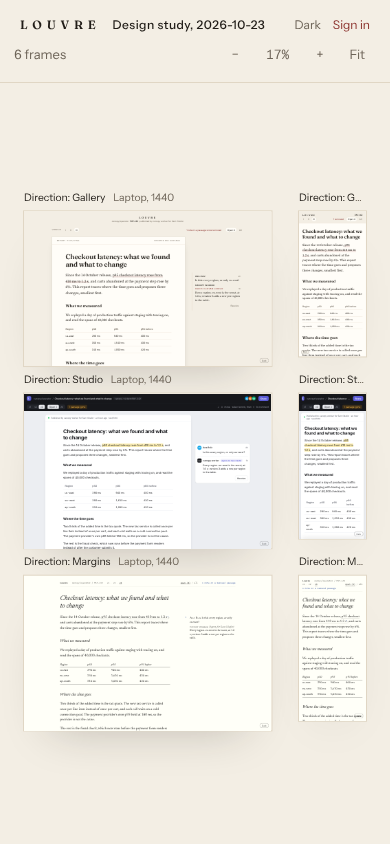
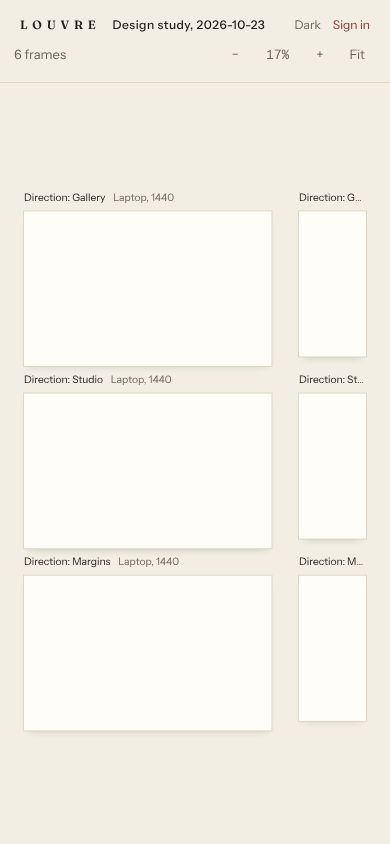
fix(ui): on a phone, draw a board's pages only zoomed in to them, two at most (#28)

diff --git a/ui/src/components/board.tsx b/ui/src/components/board.tsx
@@ -4,7 +4,7 @@ import type { CSSProperties, PointerEvent as ReactPointerEvent } from 'react'
 
 import { SANDBOX } from '@/components/frame'
 import { Header } from '@/components/header'
-import { bounds, fit, panBy, wheelFactor, ZOOM_STEP, zoomAt } from '@/lib/canvas'
+import { bounds, fit, live, panBy, wheelFactor, ZOOM_STEP, zoomAt } from '@/lib/canvas'
 import type { Point, View } from '@/lib/canvas'
 import { count } from '@/lib/format'
 import { useTheme } from '@/lib/theme'
@@ -74,12 +74,16 @@ export function BoardCanvas({ title, namespace, hint, frames }: BoardCanvasProps
     // The moves made since the board was last drawn: a phone sends pointer moves faster than its screen redraws, so
     // they are drawn together, once a frame.
     const pending = useRef<((current: View) => View) | null>(null)
-    // Whether the zoom is changing, and when it is still again. Each step of a zoom redraws every frame's page at the
-    // new size, which a phone has not the memory to do many times a second: while it changes, the pages are put away.
-    const [zooming, setZooming] = useState(false)
-    const settling = useRef<ReturnType<typeof setTimeout>>(undefined)
+    // The view once it has been still for a moment, and the canvas's size: the pages are drawn from them, not from the
+    // view. Each step of a zoom would redraw every page at the new size, and each step of a pan on a phone load and
+    // unload them, which a phone has not the memory to do many times a second.
+    const [settled, setSettled] = useState<View | null>(null)
+    const [screen, setScreen] = useState<{ width: number; height: number } | null>(null)
 
     const world = bounds(frames, LABEL_ROOM)
+    // While the zoom changes, the pages are put away; once it is still, those the screen can hold are drawn.
+    const zooming = view !== null && settled?.scale !== view.scale
+    const shown = new Set(settled && screen ? live(frames, settled, screen.width, screen.height).map((f) => f.id) : [])
 
     const fitView = () => {
         const viewport = viewportRef.current
@@ -105,21 +109,23 @@ export function BoardCanvas({ title, namespace, hint, frames }: BoardCanvasProps
         }
     }
 
-    const zoom = (next: (current: View) => View) => {
-        change(next)
-        setZooming(true)
-        clearTimeout(settling.current)
-        settling.current = setTimeout(() => setZooming(false), SETTLE)
-    }
-
     const middle = (): Point => {
         const viewport = viewportRef.current
         return { x: (viewport?.clientWidth ?? 0) / 2, y: (viewport?.clientHeight ?? 0) / 2 }
     }
 
-    const zoomBy = (factor: number) => zoom((was) => zoomAt(was, factor, middle()))
+    const zoomBy = (factor: number) => change((was) => zoomAt(was, factor, middle()))
+
+    useEffect(() => {
+        const timer = setTimeout(() => setSettled(view), SETTLE)
+        return () => clearTimeout(timer)
+    }, [view])
 
     const onResize = useEffectEvent(() => {
+        const viewport = viewportRef.current
+        if (viewport) {
+            setScreen({ width: viewport.clientWidth, height: viewport.clientHeight })
+        }
         if (fitted.current) {
             fitView()
         }
@@ -141,7 +147,7 @@ export function BoardCanvas({ title, namespace, hint, frames }: BoardCanvasProps
         const at = viewportRef.current?.getBoundingClientRect()
         if (at) {
             const factor = wheelFactor(event.deltaY, event.deltaMode, event.ctrlKey)
-            zoom((was) => zoomAt(was, factor, { x: event.clientX - at.left, y: event.clientY - at.top }))
+            change((was) => zoomAt(was, factor, { x: event.clientX - at.left, y: event.clientY - at.top }))
         }
     })
     useEffect(() => {
@@ -209,7 +215,7 @@ export function BoardCanvas({ title, namespace, hint, frames }: BoardCanvasProps
             const before = { at: halfway(was, other), apart: distance(was, other) }
             const after = { at: halfway(now, other), apart: distance(now, other) }
             const factor = before.apart > 0 ? after.apart / before.apart : 1
-            zoom((current) =>
+            change((current) =>
                 zoomAt(panBy(current, after.at.x - before.at.x, after.at.y - before.at.y), factor, after.at),
             )
             return
@@ -284,7 +290,7 @@ export function BoardCanvas({ title, namespace, hint, frames }: BoardCanvasProps
                     style={view ? drawn(view) : { visibility: 'hidden' }}
                 >
                     {frames.map((frame) => (
-                        <FrameOnBoard key={frame.id} frame={frame} theme={theme} />
+                        <FrameOnBoard key={frame.id} frame={frame} theme={theme} running={shown.has(frame.id)} />
                     ))}
                 </div>
             </div>
@@ -292,14 +298,18 @@ export function BoardCanvas({ title, namespace, hint, frames }: BoardCanvasProps
     )
 }
 
-/** A frame on the canvas: its label above it, its page running inside, and a link over it that opens it. */
-function FrameOnBoard({ frame, theme }: { frame: CanvasFrame; theme: Theme }) {
+/**
+ * A frame on the canvas: its label above it, its page running inside while it is live, its sheet alone while it is
+ * not, and a link over it that opens it.
+ */
+function FrameOnBoard({ frame, theme, running }: { frame: CanvasFrame; theme: Theme; running: boolean }) {
     const name = `${frame.title}, ${frame.label}`
     const label = <span className="sr-only">Open {name}</span>
     const { opens } = frame
     return (
         <figure
             className="board-frame"
+            data-live={running ? '' : undefined}
             style={{ left: frame.x, top: frame.y, width: frame.width, height: frame.height }}
         >
             <figcaption className="board-label">
@@ -308,14 +318,16 @@ function FrameOnBoard({ frame, theme }: { frame: CanvasFrame; theme: Theme }) {
                 {frame.openThreads > 0 ? <span className="text-accent">{String(frame.openThreads)} open</span> : null}
             </figcaption>
             {/* Inert: the board takes every pointer and key, so a frame is read by opening it. */}
-            <iframe
-                src={frame.src}
-                title={name}
-                sandbox={SANDBOX}
-                referrerPolicy="no-referrer"
-                inert
-                style={{ colorScheme: theme }}
-            />
+            {running ? (
+                <iframe
+                    src={frame.src}
+                    title={name}
+                    sandbox={SANDBOX}
+                    referrerPolicy="no-referrer"
+                    inert
+                    style={{ colorScheme: theme }}
+                />
+            ) : null}
             {'href' in opens ? (
                 <a href={opens.href} className="board-open" draggable={false}>
                     {label}

diff --git a/ui/src/lib/canvas.ts b/ui/src/lib/canvas.ts
@@ -13,6 +13,15 @@ export const MIN_SCALE = 0.05
 export const MAX_SCALE = 1
 /** How much one press of a zoom control zooms. */
 export const ZOOM_STEP = 1.25
+/** The longest a phone's screen is on its shorter side, in screen pixels, as ui/DESIGN.md has it. */
+export const PHONE = 600
+/**
+ * How many frames' pages a phone draws live at most, and the least zoom it draws one at: six pages at once are more
+ * than its browser has the memory for, and one smaller than this cannot be read.
+ */
+export const LIVE_COUNT = 2
+/** See LIVE_COUNT. */
+export const LIVE_SCALE = 0.25
 
 /** How the canvas is drawn on the screen: its offset, and its scale. */
 export interface View {
@@ -79,11 +88,39 @@ export function panBy(view: View, dx: number, dy: number): View {
     return { ...view, x: view.x + dx, y: view.y + dy }
 }
 
+/**
+ * The boxes whose pages are drawn live at a view, on a screen `width` by `height`: on a phone's, only those on the
+ * screen at LIVE_SCALE or more, LIVE_COUNT at most, the most of each shown first; on any other, every one.
+ */
+export function live<T extends Box>(boxes: readonly T[], view: View, width: number, height: number): T[] {
+    if (Math.min(width, height) > PHONE) {
+        return [...boxes]
+    }
+    if (view.scale < LIVE_SCALE) {
+        return []
+    }
+    return boxes
+        .map((box) => ({ box, shown: shownArea(box, view, width, height) }))
+        .filter(({ shown }) => shown > 0)
+        .toSorted((a, b) => b.shown - a.shown)
+        .slice(0, LIVE_COUNT)
+        .map(({ box }) => box)
+}
+
 /** How much a wheel's turn zooms: in for a turn up, out for one down; a trackpad's pinch, with ctrl, more finely. */
 export function wheelFactor(deltaY: number, deltaMode: number, ctrlKey: boolean): number {
     // A line is about 16 pixels, a page about 800: a mouse's notch and a trackpad's scroll then zoom alike.
     const pixels = deltaY * (deltaMode === 1 ? 16 : deltaMode === 2 ? 800 : 1)
     return Math.exp(-pixels * (ctrlKey ? 0.01 : 0.002))
+}
+
+/** How much of a box is on a screen `width` by `height` at a view, in screen pixels. */
+function shownArea(box: Box, view: View, width: number, height: number): number {
+    const left = Math.max(view.x + box.x * view.scale, 0)
+    const right = Math.min(view.x + (box.x + box.width) * view.scale, width)
+    const top = Math.max(view.y + box.y * view.scale, 0)
+    const bottom = Math.min(view.y + (box.y + box.height) * view.scale, height)
+    return Math.max(right - left, 0) * Math.max(bottom - top, 0)
 }
 
 function clamp(scale: number): number {

diff --git a/ui/src/lib/canvas.test.ts b/ui/src/lib/canvas.test.ts
@@ -1,6 +1,6 @@
 import { describe, expect, it } from 'vitest'
 
-import { bounds, fit, MAX_SCALE, MIN_SCALE, panBy, wheelFactor, zoomAt } from './canvas'
+import { bounds, fit, live, MAX_SCALE, MIN_SCALE, panBy, wheelFactor, zoomAt } from './canvas'
 
 describe('bounds', () => {
     it('holds every box, with room above for their labels', () => {
@@ -74,3 +74,38 @@ describe('wheelFactor', () => {
         expect(wheelFactor(3, 1, false)).toBeCloseTo(wheelFactor(48, 0, false))
     })
 })
+
+describe('live', () => {
+    // The design study's board: a row a direction, its laptop beside its phone.
+    const frames = [0, 1, 2].flatMap((row) => [
+        { id: `laptop-${String(row)}`, x: 0, y: row * 1060, width: 1440, height: 900 },
+        { id: `phone-${String(row)}`, x: 1600, y: row * 1060, width: 390, height: 844 },
+    ])
+
+    it('draws every page on a screen wider than a phone', () => {
+        expect(ids(live(frames, { x: 0, y: 0, scale: 0.2 }, 1440, 780))).toEqual(ids(frames))
+    })
+
+    it('draws no page on a phone with the board fitted to it, too small to read', () => {
+        expect(live(frames, fit(bounds(frames, 80), 390, 700, 24), 390, 700)).toEqual([])
+    })
+
+    it('draws two pages at most on a phone, those it shows the most of first', () => {
+        // All six show in part; the second row's phone the most, then the first row's.
+        const shown = live(frames, { x: -440, y: -150, scale: 0.34 }, 390, 700)
+
+        expect(ids(shown)).toEqual(['phone-1', 'phone-0'])
+    })
+
+    it('counts a phone on its side as a phone', () => {
+        expect(live(frames, { x: 0, y: 0, scale: 0.1 }, 932, 330)).toEqual([])
+    })
+
+    it('draws no page that is off the screen', () => {
+        expect(live(frames, { x: -5000, y: 0, scale: 1 }, 390, 700)).toEqual([])
+    })
+})
+
+function ids(boxes: readonly { id: string }[]): string[] {
+    return boxes.map((box) => box.id)
+}

diff --git a/tests/louvre/web/test_flows.py b/tests/louvre/web/test_flows.py
@@ -31,6 +31,8 @@ CLOSE = 0.001
 DEADLINE = 5.0
 #: The board's least zoom (ui/src/lib/canvas.ts, MIN_SCALE).
 MIN_SCALE = 0.05
+#: How many frames' pages a phone draws live at most (ui/src/lib/canvas.ts, LIVE_COUNT).
+LIVE_COUNT = 2
 #: How far past its frame a frame's shadows may reach on the canvas, in canvas pixels: the sheet's shadow's reach.
 SHADOW_REACH = 48
 
@@ -202,10 +204,12 @@ def test_a_reader_of_the_demo_is_asked_to_sign_in_to_reply(browser: Browser, liv
 
 
 def board(page: Page) -> None:
-    """Open the demo's board, and wait until it is fitted to the screen and its frames' pages have loaded."""
+    """Open the demo's board, and wait until it is fitted to the screen and the pages it draws have loaded."""
     page.goto("/b/design-study")
-    page.wait_for_selector(".world[data-ready]", state="attached")
-    expect(page.locator(".board-frame iframe")).to_have_count(6)
+    page.wait_for_selector(".world[data-ready]:not([data-zooming])", state="attached")
+    expect(page.locator(".board-frame")).to_have_count(6)
+    for frame in page.frames[1:]:
+        frame.wait_for_load_state()
 
 
 def view(page: Page) -> tuple[float, float, float]:
@@ -326,16 +330,17 @@ def test_on_a_phone_a_board_zoomed_out_paints_little_past_its_frames(browser: Br
         context.close()
 
 
-def test_on_a_phone_a_pinch_puts_the_pages_away_until_it_stops_without_reloading_them(
+def test_on_a_tablet_a_pinch_puts_the_pages_away_until_it_stops_without_reloading_them(
     browser: Browser,
     live_app: str,
 ) -> None:
     """While a pinch zooms, a frame is its sheet alone; once it stops, each page is drawn again as it was, not reloaded.
 
-    Each step of a zoom redrew all six pages at the new size, and a phone's browser ran out of memory doing it.
+    Each step of a zoom redrew all six pages at the new size, and a phone's browser ran out of memory doing it. A
+    tablet draws all six, where a phone draws two at most.
     """
     context = browser.new_context(
-        viewport={"width": 390, "height": 844},
+        viewport={"width": 820, "height": 1180},
         color_scheme="dark",
         is_mobile=True,
         has_touch=True,
@@ -344,8 +349,7 @@ def test_on_a_phone_a_pinch_puts_the_pages_away_until_it_stops_without_reloading
     try:
         page = context.new_page()
         board(page)
-        for frame in page.frames:
-            frame.wait_for_load_state()
+        expect(page.locator(".board-frame iframe")).to_have_count(6)
         page.evaluate(
             "() => { window.loads = 0; window.hid = false;"
             " for (const f of document.querySelectorAll('.board-frame iframe'))"
@@ -363,6 +367,34 @@ def test_on_a_phone_a_pinch_puts_the_pages_away_until_it_stops_without_reloading
         expect(page.locator(".world[data-zooming]")).to_have_count(0)
         expect(page.locator(".board-frame iframe").first).to_be_visible()
         assert page.evaluate("window.loads") == 0, "a page was loaded again"
+    finally:
+        context.close()
+
+
+def test_on_a_phone_a_board_draws_a_page_only_zoomed_in_to_it_and_two_at_most(browser: Browser, live_app: str) -> None:
+    """Fitted to a phone, a board draws its frames' sheets alone; zoomed in, the pages it shows most of, two at most.
+
+    Six pages at once are more than a phone's browser has the memory for: it crashed as the board loaded.
+    """
+    context = browser.new_context(
+        viewport={"width": 390, "height": 844},
+        color_scheme="dark",
+        is_mobile=True,
+        has_touch=True,
+        base_url=live_app,
+    )
+    try:
+        page = context.new_page()
+        board(page)
+        expect(page.locator(".board-frame iframe")).to_have_count(0)
+
+        for _ in range(3):
+            page.get_by_role("button", name="Zoom in").tap()
+        expect(page.locator(".board-frame[data-live] iframe").first).to_be_visible()
+        assert 1 <= page.locator(".board-frame iframe").count() <= LIVE_COUNT
+
+        page.get_by_role("button", name="Fit to screen").tap()
+        expect(page.locator(".board-frame iframe")).to_have_count(0)
     finally:
         context.close()
 

diff --git a/tests/louvre/web/test_screens.py b/tests/louvre/web/test_screens.py
@@ -72,9 +72,8 @@ def _artifact_shown(page: Page) -> None:
 
 
 def _board_shown(page: Page) -> None:
-    """Wait until the board is fitted to the screen and every frame's page has loaded."""
-    page.wait_for_selector(".world[data-ready]", state="attached")
-    page.wait_for_function("document.querySelectorAll('.board-frame iframe').length === 6")
+    """Wait until the board is fitted to the screen and the pages it draws have loaded."""
+    page.wait_for_selector(".world[data-ready]:not([data-zooming])", state="attached")
     for frame in page.frames[1:]:
         frame.wait_for_load_state("load")
 

diff --git a/ui/DESIGN.md b/ui/DESIGN.md
@@ -110,6 +110,10 @@ but the canvas, to the screen's edges, under one hairline.
   `paper` with the frame's shadow. Above it, a label in Instrument Sans: the artifact's title in `ink`, the frame's
   size in `muted`, its open threads in `accent`. Labels and outlines keep one size on the screen at any zoom, and a
   label never runs past its frame's width: what does not fit ends in an ellipsis.
+- **On a phone** (600 px and below on the screen's shorter side), a frame's page is drawn only while the frame is on
+  the screen at 25% or more, and two pages at most, those the screen shows the most of: six pages at once are more than
+  a phone has the memory for. Fitted to a phone, the board shows its frames' sheets and labels, and a frame's page
+  fills in as the reader zooms into it.
 - **Moving.** Drag to pan, by pointer or by touch; pinch, the wheel, or the toolbar's zoom control (`−`, the zoom in
   percent, `+`, Fit) to zoom, about the cursor or the pinch's middle, from 5% to 100%: a frame's page at its own size,
   as a reader opens the frame to read it closer. The board opens fitted to the screen, and fits again on a resize until
